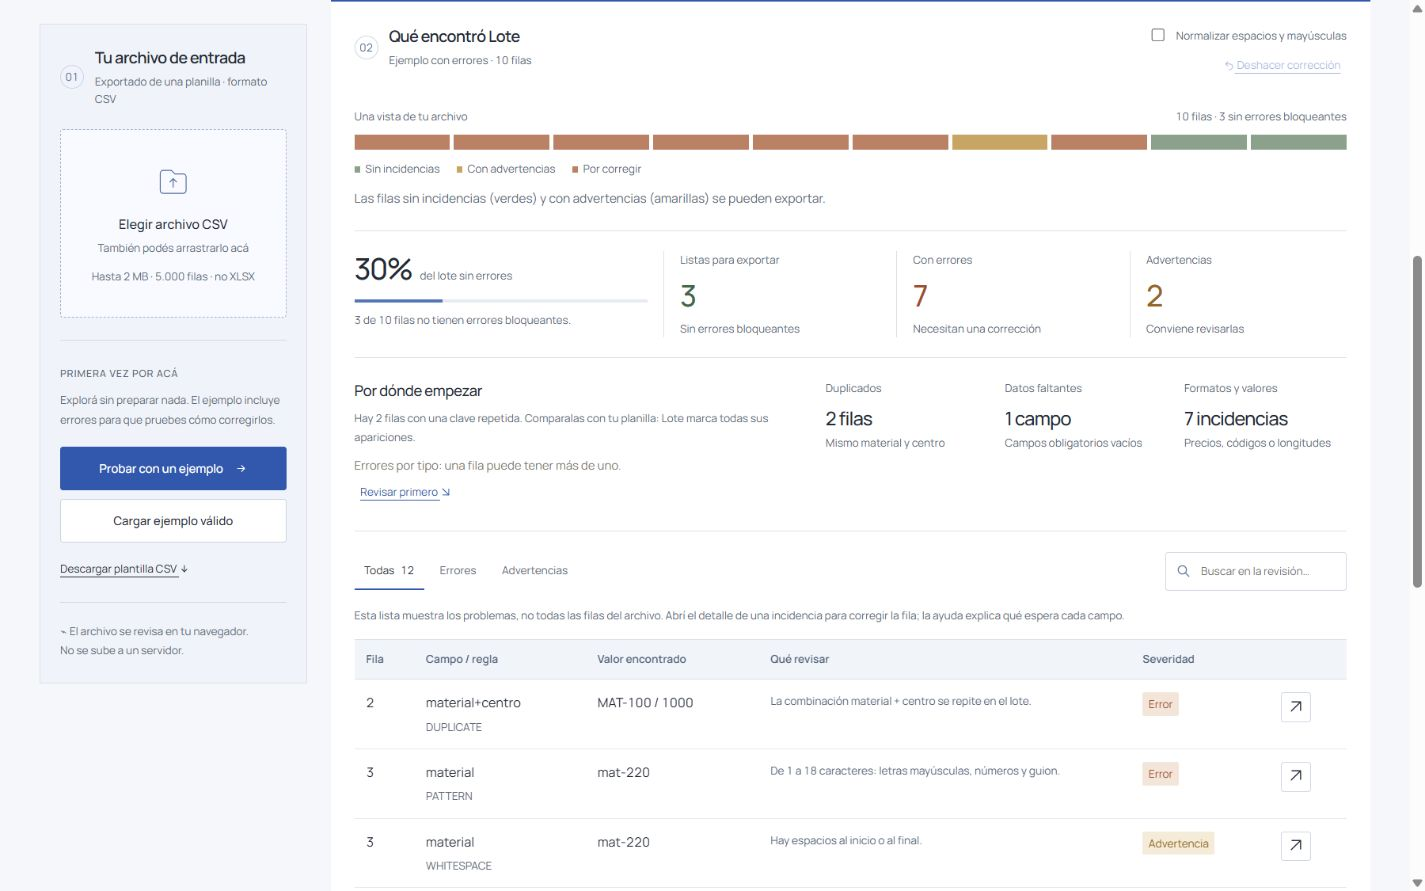
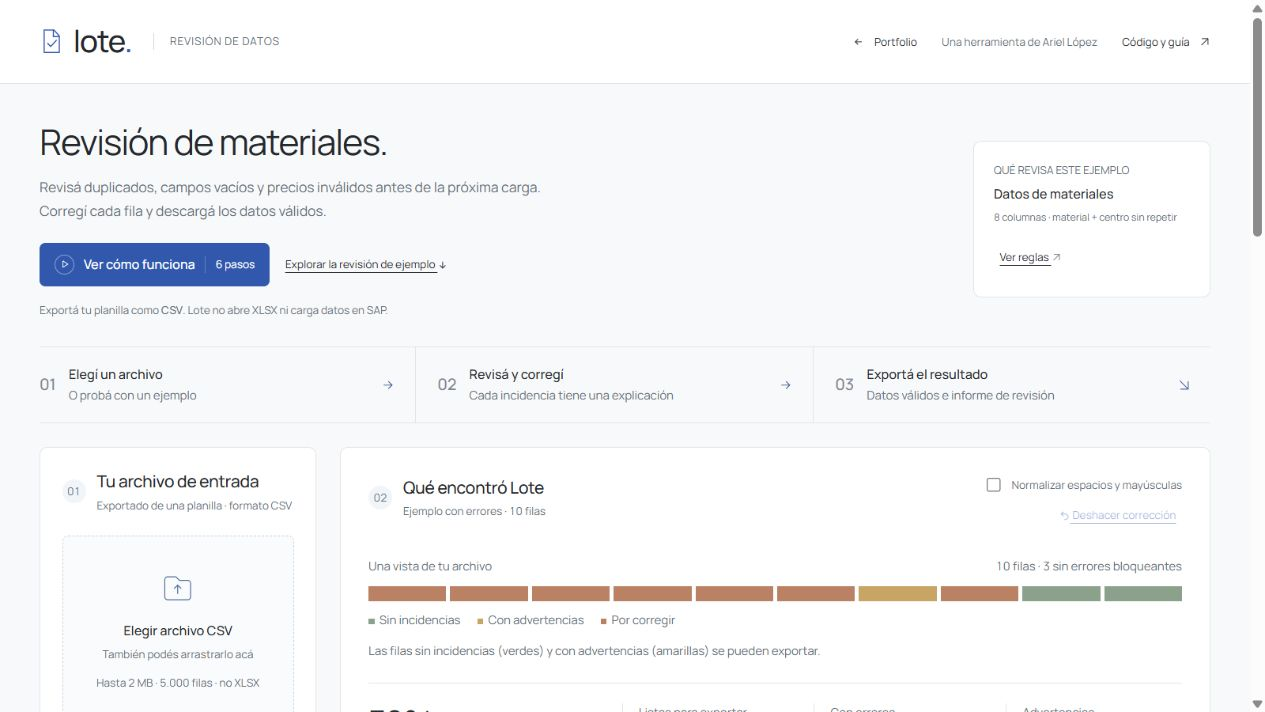
Rework Lote as a focused review workspace

diff --git a/direction.css b/direction.css
@@ -1,0 +1,190 @@
+:root {
+  --ink: #25282c;
+  --muted: #667079;
+  --line: #e1e5e8;
+  --accent: #3158ad;
+  background: #f8f9fa;
+}
+body {
+  font-size: 14px;
+  line-height: 1.6;
+}
+header {
+  background: #fff;
+}
+.brand {
+  font-weight: 500;
+  letter-spacing: -0.035em;
+}
+.brand-sub {
+  font-size: 11px;
+}
+.intro {
+  grid-template-columns: 1fr auto;
+  gap: 48px;
+  padding: 36px 0 28px;
+  align-items: center;
+}
+.intro h1 {
+  font-size: 36px;
+  font-weight: 400;
+  line-height: 1.25;
+  letter-spacing: -0.035em;
+  max-width: none;
+}
+.intro h1 br {
+  display: none;
+}
+.intro-copy > .eyebrow {
+  display: none;
+}
+.intro-explanation {
+  font-size: 14px;
+  line-height: 1.7;
+  margin-top: 12px;
+  max-width: 62ch;
+}
+.intro-actions {
+  margin-top: 20px;
+}
+.profile-card {
+  border: 0;
+  padding: 0;
+  min-width: 240px;
+}
+.data-proof {
+  display: none;
+}
+.profile-details {
+  display: block;
+  padding: 20px;
+  background: #fff;
+  border: 1px solid var(--line);
+  border-radius: 8px;
+}
+.profile-details > div {
+  gap: 6px;
+}
+.profile-details button {
+  margin-top: 12px;
+}
+.profile-details small {
+  font-size: 11px;
+}
+.workflow {
+  border-color: var(--line);
+  margin-bottom: 24px;
+}
+.workflow-number {
+  font-size: 16px;
+  color: #7c8791;
+}
+.workflow strong {
+  font-size: 13px;
+  font-weight: 500;
+}
+.workflow small {
+  font-size: 12px;
+}
+.review-workspace {
+  grid-template-columns: 280px minmax(0, 1fr);
+  gap: 24px;
+}
+.upload-panel {
+  background: white;
+  border: 1px solid var(--line);
+  border-radius: 8px;
+  padding: 22px;
+}
+.results-panel {
+  background: #fff;
+  border: 1px solid var(--line);
+  border-radius: 8px;
+  padding: 28px;
+}
+h2 {
+  font-size: 17px;
+  font-weight: 500;
+  letter-spacing: -0.02em;
+}
+.step {
+  border: 0;
+  background: #f1f4f8;
+  color: #64758b;
+}
+.button {
+  border-radius: 6px;
+  font-size: 13px;
+}
+.file-zone {
+  background: #fafbfc;
+  border-color: #cbd4df;
+  border-radius: 6px;
+}
+.summary-grid strong,
+.score-head > span {
+  font-size: 32px;
+  font-weight: 400;
+  letter-spacing: -0.035em;
+}
+.summary-grid small,
+.summary-label {
+  font-size: 12px;
+}
+.batch-help,
+.batch-legend,
+.batch-caption {
+  font-size: 12px;
+}
+th {
+  background: #f7f9fa;
+  font-weight: 500;
+  color: #64717a;
+  padding-block: 14px;
+}
+td {
+  padding-block: 18px;
+  border-color: #edf0f2;
+}
+.findings-types dd {
+  font-weight: 400;
+}
+.export-bar {
+  border-color: var(--line);
+}
+@media (max-width: 900px) {
+  .review-workspace {
+    grid-template-columns: 1fr;
+  }
+  .intro {
+    grid-template-columns: 1fr;
+    gap: 24px;
+  }
+  .profile-card {
+    min-width: 0;
+  }
+  .profile-details {
+    display: flex;
+    align-items: center;
+    gap: 16px;
+    padding: 16px;
+  }
+  .profile-details button {
+    margin-top: 0;
+  }
+}
+@media (max-width: 560px) {
+  .intro h1 {
+    font-size: 30px;
+  }
+  .intro h1 br {
+    display: block;
+  }
+  .results-panel {
+    padding: 20px 16px;
+  }
+  .summary-grid small,
+  .summary-label {
+    font-size: 11px;
+  }
+}

diff --git a/index.html b/index.html
@@ -23,6 +23,7 @@
     <link rel="stylesheet" href="tutorial.css?v=20261101-type-1" />
     <link rel="stylesheet" href="identity.css?v=20261101-type-1" />
     <script type="module" src="src/app.js?v=20261101-type-1"></script>
+    <link rel="stylesheet" href="direction.css?v=20261101-direction-2" />
     <link rel="stylesheet" href="video.css?v=20261101-type-1" />
   </head>
   <body>
@@ -74,7 +75,7 @@
       <div class="intro">
         <div class="intro-copy">
           <p class="eyebrow"><span></span> CONTROL DE CALIDAD / ARCHIVOS CSV</p>
-          <h1>Revisión de<br />materiales.</h1>
+          <h1>Revisión de <br />materiales.</h1>
           <p class="intro-explanation">
             Revisá duplicados, campos vacíos y precios inválidos antes de la próxima carga. Corregí
             cada fila y descargá los datos válidos.

diff --git a/README.md b/README.md
@@ -188,3 +188,7 @@ El [proceso de generación versionado](https://github.com/EnriqueArielLopez/port
 Manrope unifica títulos, instrucciones y controles. La entrada y los resultados se distinguen por estructura y líneas; los colores de error, advertencia y aceptación mantienen su función. El video queda después de la herramienta y señala que muestra la interfaz anterior. No cambian reglas, archivos, edición ni exportación.
 
 Validado en Local: 15 pruebas; ejemplo válido con 6 filas exportables; corrección de un precio negativo (3 → 4 filas exportables), deshacer y guía interactiva; revisión responsive y editor en móvil. Las capturas muestran datos ficticios.
+
+## Segunda revisión visual · 1 de noviembre de 2026
+
+Se reemplaza la dirección anterior por una interfaz de trabajo con Manrope regular, espaciado tipográfico moderado, títulos de 28–40 px, controles legibles y superficies neutras. `direction.css` reúne esta dirección visual. La revisión toma las proporciones tipográficas de Nexus Creative y distingue la presentación del portfolio de la densidad necesaria en una aplicación. Las reglas y los datos no cambian.
